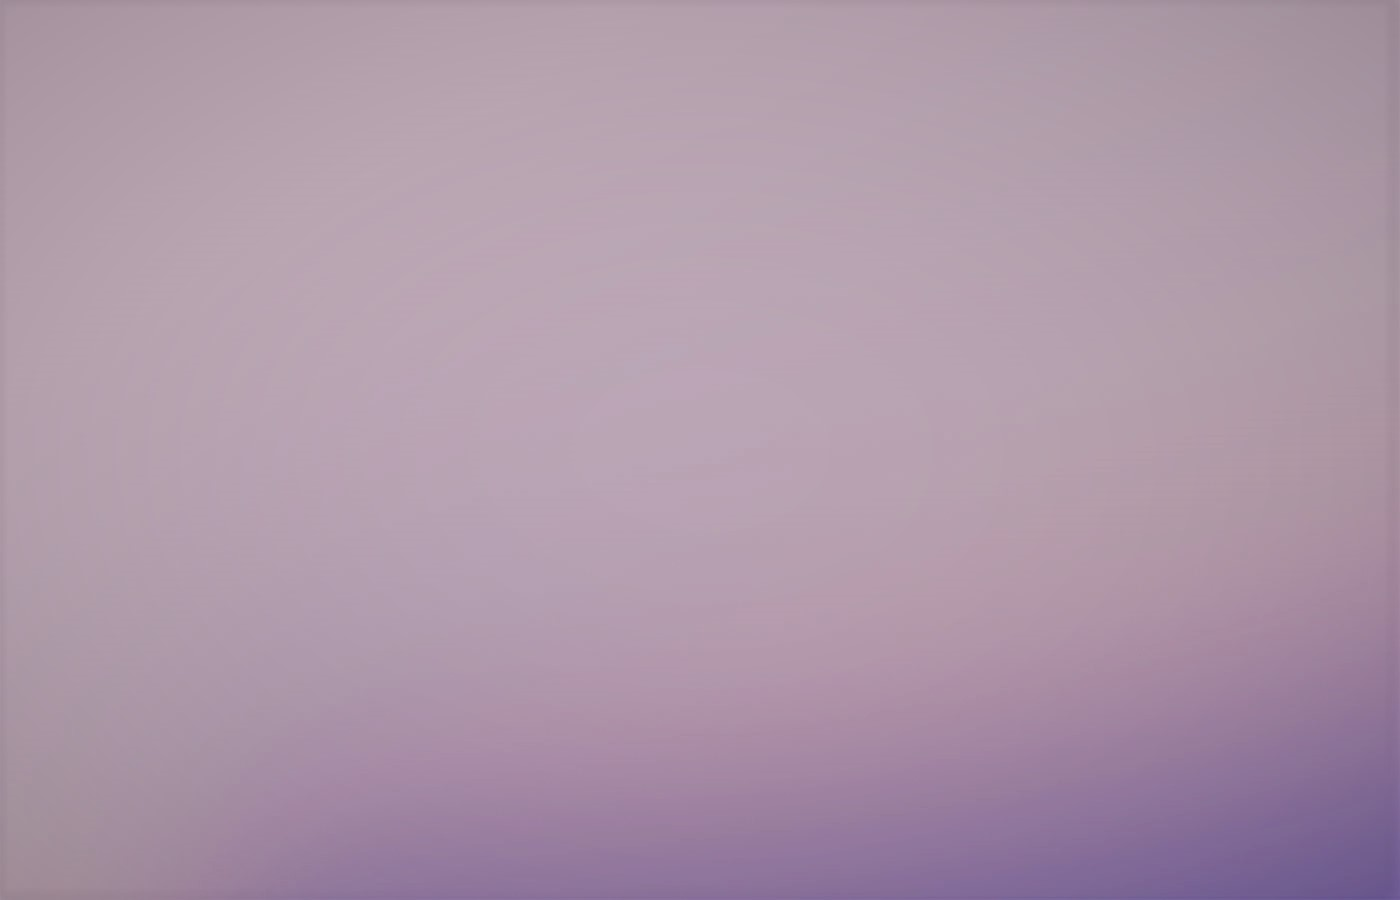
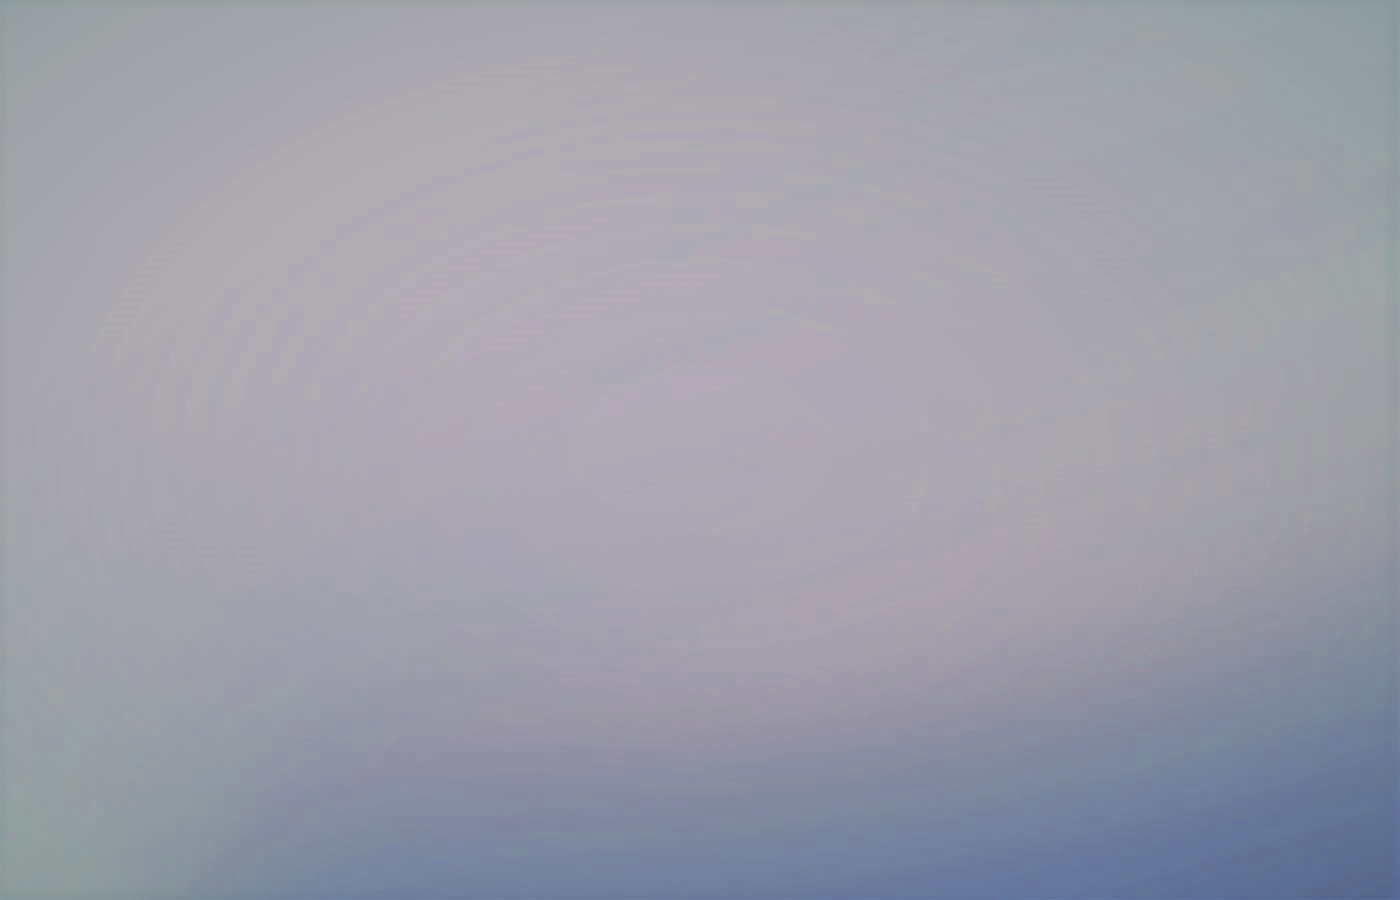
Update linkedin link
- changed bg image

Changed region(s): [[0.0921, 0.6533, 1.0, 1.0]]

diff --git a/index.html b/index.html
@@ -22,9 +22,10 @@
 						<a href="#" class="icon solid fa-home"><span>Home</span></a>
 						<a href="#work" class="icon solid fa-folder"><span>Work</span></a>
 						<a href="https://github.com/enricava" class="icon brands fa-github"><span>GitHub</span></a>
+						<a href="https://www.linkedin.com/in/enrique-cavanillas-967a921a3/" class="icon brands fa-linkedin"><span>GitHub</span></a>
 						<a href="mailto:enriquecavanillaspuga@gmail.com" class="icon solid fa-envelope"><span>Contact me</span></a>
 					</nav>
-
+				<!-- -->
 				<!-- Main -->
 					<div id="main">
 
